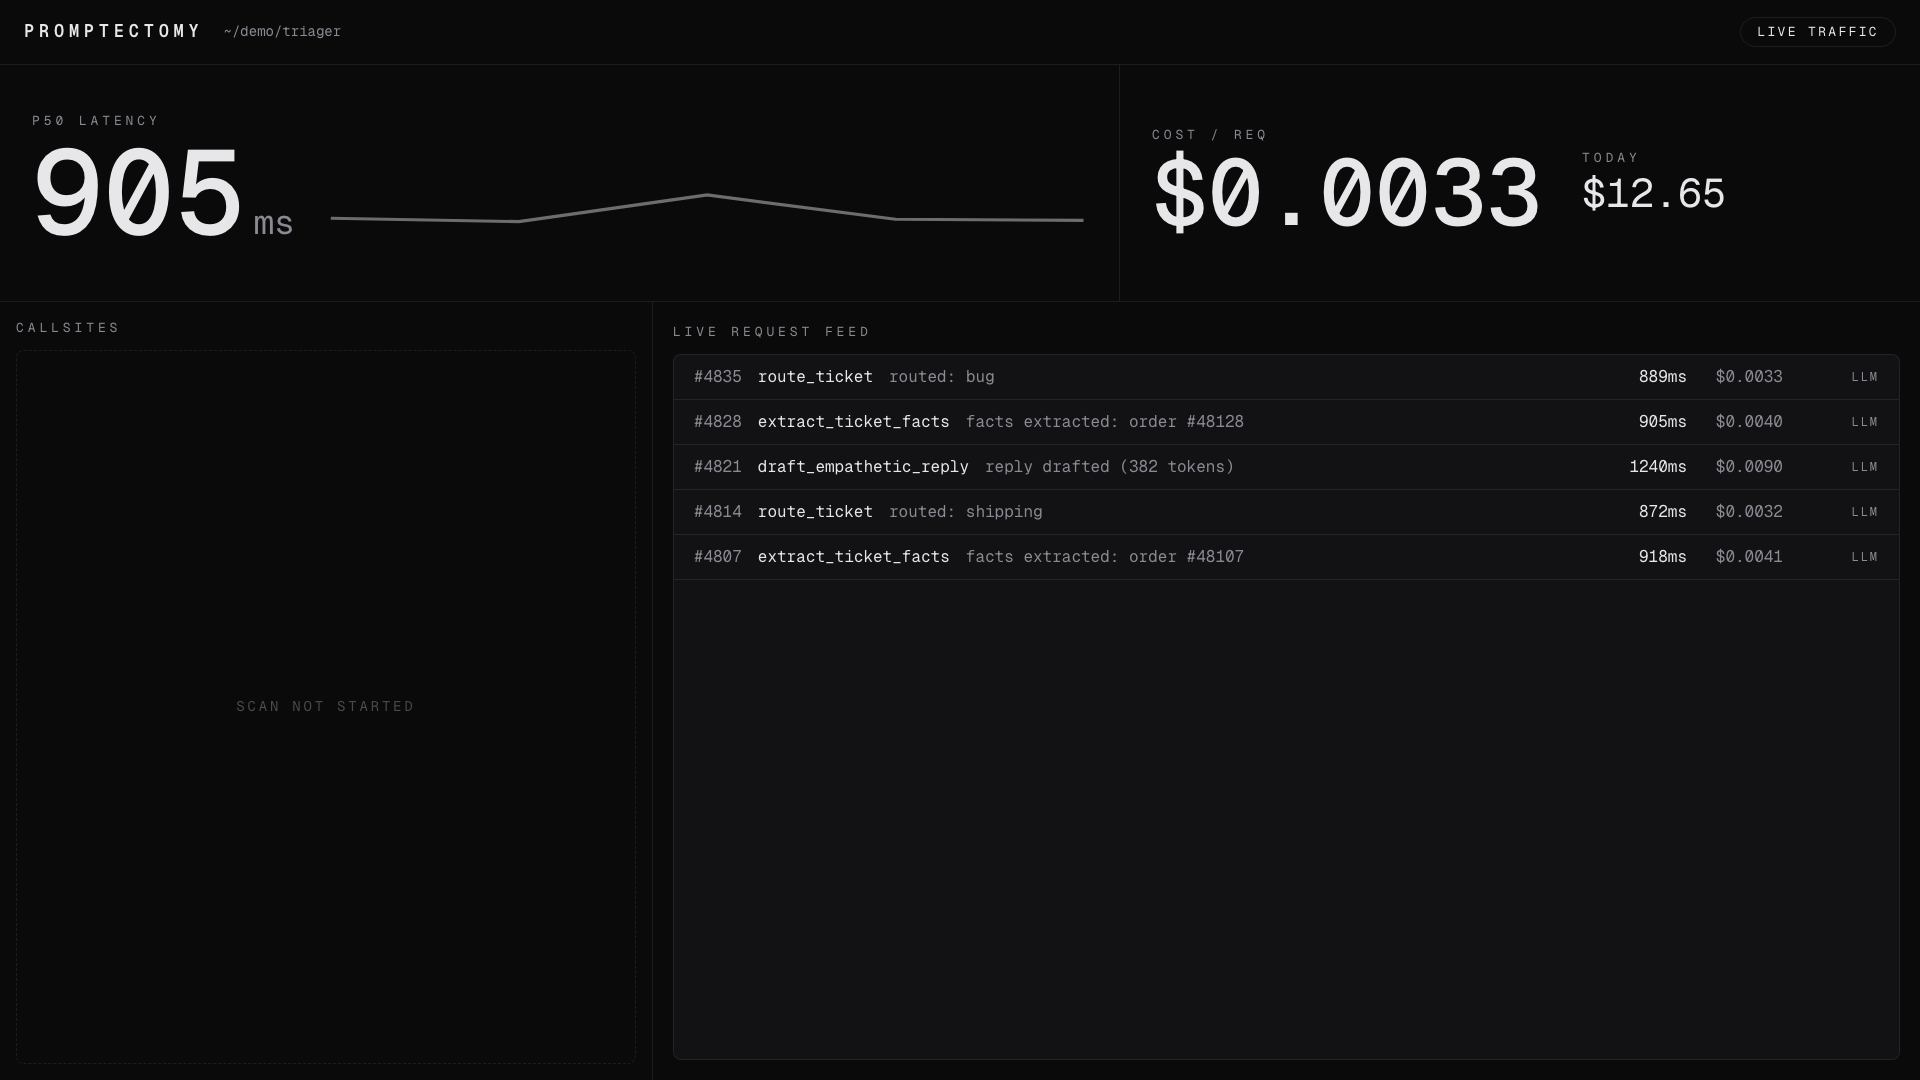
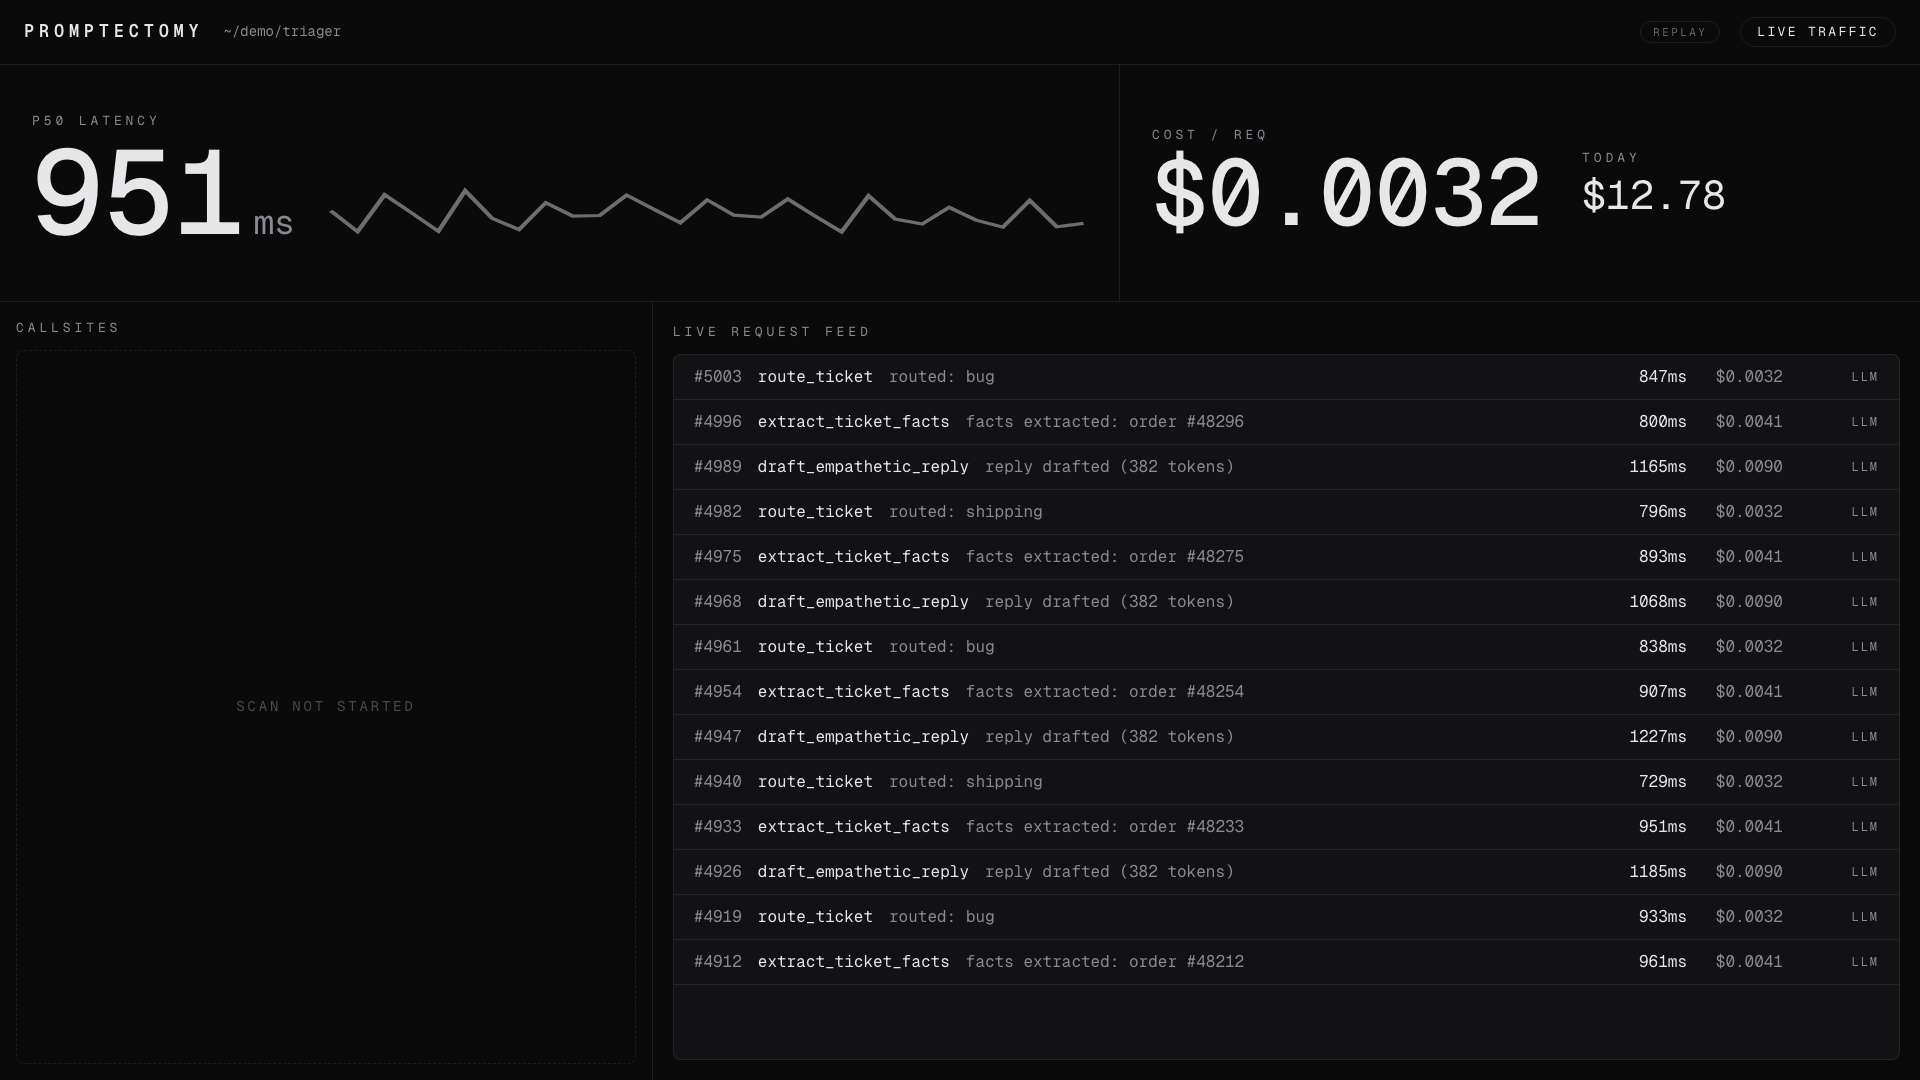
Full handoff doc + dashboard polish (FROZEN fix, REPLAY pill, legibility)
docs/HANDOFF.md: complete take-over guide (layout, run, state, what's left, boundaries).
Dashboard polish: FROZEN/TODAY overlap fixed, dim REPLAY pill, hero-beat legibility, stale
fabricated-diff screenshot removed. Playwright 8/8.

Claude-Session: https://claude.ai/code/session_015d9CNbHRWcF1xMgNYyVSu5

diff --git a/ui/components/MeterStrip.tsx b/ui/components/MeterStrip.tsx
@@ -2,6 +2,7 @@
 
 import { useEffect, useRef, useState } from "react";
 import { animate } from "motion";
+import { motion } from "motion/react";
 import { p50, type DashState, type TrafficSample } from "@/lib/state";
 import { cn } from "@/lib/utils";
 
@@ -123,26 +124,29 @@ export function MeterStrip({ state }: { state: DashState }) {
           </span>
         </div>
         <div>
-          <div className="font-mono text-[13px] tracking-[0.3em] text-muted">TODAY</div>
-          <div className="relative inline-block">
-            <span
-              data-testid="cum-cost"
-              className={cn(
-                "tnum font-mono text-[clamp(22px,4vh,40px)] leading-tight",
-                state.frozenCost !== null ? "text-muted/30" : "text-fg",
-              )}
-            >
-              {usd(cumulative, 2)}
-            </span>
+          <div className="flex h-6 items-center gap-3 font-mono text-[13px] tracking-[0.3em] text-muted">
+            <span>TODAY</span>
             {state.frozenCost !== null && (
-              <span
+              <motion.span
                 data-testid="frozen-stamp"
-                className="absolute left-1/2 top-1/2 -translate-x-1/2 -translate-y-1/2 -rotate-12 rounded border-2 border-go/70 bg-ink/60 px-2.5 py-0.5 font-mono text-[13px] font-bold tracking-[0.24em] text-go whitespace-nowrap"
+                initial={{ opacity: 0, scale: 1.5, rotate: 0 }}
+                animate={{ opacity: 1, scale: 1, rotate: -4 }}
+                transition={{ duration: 0.3, ease: "easeOut" }}
+                className="rounded border-2 border-go/80 px-2 py-px font-mono text-[12px] font-bold tracking-[0.24em] text-go whitespace-nowrap"
               >
                 FROZEN
-              </span>
+              </motion.span>
             )}
           </div>
+          <span
+            data-testid="cum-cost"
+            className={cn(
+              "tnum font-mono text-[clamp(22px,4vh,40px)] leading-tight",
+              state.frozenCost !== null ? "text-muted" : "text-fg",
+            )}
+          >
+            {usd(cumulative, 2)}
+          </span>
         </div>
       </div>
     </section>

diff --git a/ui/components/stages/SwapTable.tsx b/ui/components/stages/SwapTable.tsx
@@ -53,7 +53,7 @@ export function SwapTable({ state }: { state: DashState }) {
                 initial={{ scale: 1.35, opacity: 0 }}
                 animate={{ scale: 1, opacity: 1 }}
                 transition={{ duration: 0.2, delay: 0.3 + i * 0.22, ease: "easeOut" }}
-                className={`text-right text-[13px] font-semibold tracking-[0.14em] ${identical ? "text-go" : "text-warm"}`}
+                className={`text-right text-[16px] font-bold tracking-[0.14em] ${identical ? "text-go" : "text-warm"}`}
               >
                 {identical ? "IDENTICAL" : "DIFFERS"}
               </motion.span>
@@ -61,8 +61,9 @@ export function SwapTable({ state }: { state: DashState }) {
           );
         })}
       </div>
-      <div className="mt-4 font-sans text-[clamp(16px,2.2vh,20px)] text-muted">
-        Same inputs, byte-identical outputs. The model is out of the hot path.
+      <div className="mt-4 font-sans text-[clamp(17px,2.4vh,22px)] text-fg">
+        Same inputs, byte-identical outputs.{" "}
+        <span className="text-muted">The model is out of the hot path.</span>
       </div>
     </div>
   );

diff --git a/ui/components/TopBar.tsx b/ui/components/TopBar.tsx
@@ -13,7 +13,7 @@ const PILL: Record<Stage, { label: string; cls: string }> = {
   guard: { label: "GUARDED", cls: "border-go/50 text-go" },
 };
 
-export function TopBar({ state }: { state: DashState }) {
+export function TopBar({ state, replay }: { state: DashState; replay: boolean }) {
   const pill = PILL[state.stage];
   return (
     <header className="flex h-[6vh] min-h-11 shrink-0 items-center gap-5 border-b border-hairline px-6">
@@ -22,6 +22,14 @@ export function TopBar({ state }: { state: DashState }) {
       </span>
       <span className="font-mono text-[14px] text-muted">~/demo/triager</span>
       <span className="flex-1" />
+      {replay && (
+        <span
+          data-testid="replay-pill"
+          className="rounded-full border border-hairline px-3 py-0.5 font-mono text-[11px] tracking-[0.22em] text-muted/70"
+        >
+          REPLAY
+        </span>
+      )}
       <span
         data-testid="run-status"
         className={cn(

diff --git a/ui/components/stages/Judgment.tsx b/ui/components/stages/Judgment.tsx
@@ -13,7 +13,7 @@ export function Judgment({ state }: { state: DashState }) {
         animate={{ opacity: 1, scale: 1 }}
         transition={{ duration: 0.25, ease: "easeOut" }}
         data-testid="judgment-badge"
-        className="rounded-lg border-2 border-keep bg-keep/10 px-8 py-3 font-mono text-[clamp(24px,4vh,40px)] font-semibold tracking-[0.2em] text-keep"
+        className="rounded-lg border-2 border-keep bg-keep/10 px-10 py-4 font-mono text-[clamp(30px,5vh,54px)] font-semibold tracking-[0.2em] text-keep shadow-[0_0_70px_rgba(139,92,246,0.18)]"
       >
         KEEP MODEL
       </motion.div>

diff --git a/ui/components/CallsiteWall.tsx b/ui/components/CallsiteWall.tsx
@@ -29,7 +29,7 @@ function VerdictBadge({ cs }: { cs: CallsiteState }) {
       data-testid={`verdict-${v.callsite_id}`}
       data-status={v.status}
       className={cn(
-        "inline-block rounded border px-3 py-0.5 font-mono text-[15px] font-semibold tracking-[0.14em]",
+        "inline-block rounded border px-3 py-1 font-mono text-[16px] font-bold tracking-[0.14em]",
         style,
       )}
     >

diff --git a/ui/components/Dashboard.tsx b/ui/components/Dashboard.tsx
@@ -23,7 +23,7 @@ export function Dashboard({
       data-beat={state.beat}
       className="flex h-screen flex-col bg-ink text-fg"
     >
-      <TopBar state={state} />
+      <TopBar state={state} replay={live === null} />
       <MeterStrip state={state} />
       <div className="grid min-h-0 flex-1 grid-cols-[34%_66%]">
         <CallsiteWall state={state} />

diff --git a/ui/app/globals.css b/ui/app/globals.css
@@ -50,7 +50,7 @@ body {
     box-shadow: inset 0 0 0 rgba(34, 197, 94, 0);
   }
   100% {
-    box-shadow: inset 0 0 60px rgba(34, 197, 94, 0.12);
+    box-shadow: inset 0 0 70px rgba(34, 197, 94, 0.17);
   }
 }
 .card-compiled {

diff --git a/docs/HANDOFF.md b/docs/HANDOFF.md
@@ -1,0 +1,97 @@
+# PROMPTECTOMY - full handoff
+
+Everything a human or a fresh agent needs to take this over. Written 18 July 2026, ~14:40 BST.
+Repo: github.com/zippyg/codex-build-hack (private). Latest pushed: run `git log --oneline -5`.
+
+## What it is
+PROMPTECTOMY: point Codex at a repo, it finds the LLM calls that should be deterministic code, writes
+the replacement, and PROVES equivalence by replaying recorded traffic on a sealed holdout the model
+never saw; hot-swaps it in; keeps the calls that genuinely need a model. "The AI that writes the code
+that makes the AI unnecessary." Built for the Codex Community Hackathon, London, 18 July 2026.
+
+## Repo layout
+- `engine/` - Python 3.12 (uv). The tool.
+  - `promptectomy/contracts.py` - FROZEN Pydantic contracts (ledger, audit, verdict, PipelineEvent).
+  - `promptectomy/shim.py` - monkeypatches `Responses.create`; records to the ledger; hot-swaps to a
+    compiled engine when the registry enables it; 1% shadow guard. Callsite-id resolution is cached.
+  - `promptectomy/ledger.py` - JSONL ledger, key-based secret redaction.
+  - `promptectomy/scan.py` - Codex audit (`codex exec --output-schema`) + a static tag fallback.
+  - `promptectomy/synthesize.py` - builds the `codex exec` synthesis call in a worktree; parses --json.
+  - `promptectomy/worktrees.py` - git worktree per callsite (`pt/<id>`), staging, cleanup.
+  - `promptectomy/splitting.py` - train/dev/holdout 60/20/20 by canonical-request hash (no leakage).
+  - `promptectomy/scoring.py` - structured (canonical-JSON exact) + classifier (label agreement + macro-F1).
+  - `promptectomy/replay.py` - runs a generated module under a 100ms SIGALRM timeout; scores it.
+  - `promptectomy/guard.py` - AST purity guard: rejects forbidden imports/IO/eval BEFORE a generated
+    module is imported. Wired into replay.load_engine and shim._engine (+ path confinement).
+  - `promptectomy/verify.py` - parent-owned sealed-holdout verifier (runs once), emits the Verdict.
+  - `promptectomy/schemas.py` - generates OpenAI-strict `--output-schema` JSON from the contracts.
+  - `promptectomy/cli.py` - Typer: `run`, `scan`, `accept`, `disable`.
+  - `promptectomy/generated/*.py` - the modules CODEX WROTE (committed as evidence).
+  - `demo/triager/pipeline.py` - the demo app (3 tagged callsites). `traffic.py` + `capture.py` build
+    a keyless synthetic ledger with text-derivable ground truth.
+  - `tests/test_engine.py` - 7 pytest (scoring, split no-leakage, replay, ledger redaction, guard).
+- `ui/` - Next.js (bun). The dashboard.
+  - `lib/contracts.ts` - FROZEN Zod mirror of the PipelineEvent wire shape.
+  - `lib/useEventStream.ts` - plays a fixture NDJSON with at_ms pacing (`?speed=`, `?until=`) OR a live
+    EventSource. `lib/state.ts` - event reducer + beat derivation.
+  - `fixtures/demo-run.ndjson` - the HONEST re-paced ~88s demo (real verdicts/numbers). THIS is what
+    the stage plays. `fixtures/real-run.ndjson` - the raw real run it was built from.
+  - `app/page.tsx`, `components/*` - the cockpit (MeterStrip, CallsiteWall, MainStage + stages/).
+  - `tests/beats.spec.ts` - Playwright 8/8 (asserts the 6 beat states render + verdict colors).
+- `docs/` - SUBMISSION.md (pitch, demo script, Q&A, boundaries, numbers), submission-answers.md
+  (pasteable form fields), CONTRACTS.md, HANDOFF.md (this), specs/, source/ (the builder guide).
+- `.agent/` - plans (DECISION-promptectomy.md, BUILD-PLAN.md, MASTER-PLAN.md), logs, memory, receipts.
+  Ideation trail: `.claude/agent-logs/fable-*.md` and `.agent/artifacts/cx-*.md`.
+
+## How to run
+```bash
+# engine
+cd engine && uv sync
+uv run python -m demo.triager.capture 240     # keyless synthetic ledger -> .promptectomy/ledger.jsonl
+uv run promptectomy run .. --events jsonl     # scan -> synthesize in worktrees -> sealed-holdout verify (needs codex CLI logged in)
+uv run promptectomy scan <any-repo>           # audit-only: find LLM callsites in any repo
+uv run pytest -q                              # 7 green
+# dashboard
+cd ui && bun install && bun dev               # http://localhost:4319 (auto-plays fixtures/demo-run.ndjson)
+```
+No OPENAI_API_KEY needed (synthetic traffic). Codex synthesis uses the local `codex` CLI (logged in).
+
+## Verified results (frozen demo dataset, real run)
+extract_ticket_facts COMPILED 100% (52-case sealed holdout, ~900ms->0.006ms); route_ticket COMPILED
+100% (60-case holdout, a negation-aware rule classifier); draft_empathetic_reply NOT_COMPILABLE.
+Whole-pipeline cost -44.8%. Scanner on microsoft/markitdown @ e144e0a found its 3 vision/LLM callsites,
+all correctly kept. Receipts in `.agent/artifacts/receipts/`.
+
+## The demo (2 min, recorded replay = cannot stall)
+Open the dashboard; it auto-plays the 6 beats (~88s). Retellable line: "Codex turned two prompts into
+code, proved them against traffic it never saw, and kept the third because it still earned its tokens."
+Full beat-by-beat + Q&A answers in docs/SUBMISSION.md. Live-run is a Q&A bonus, never the stage plan.
+
+## State: 12 of 13 tasks done (see the session task list)
+Done: contracts, engine, dashboard, tests, kill-gate, full pipeline, UI-real-run, security, perf,
+public receipt, native render check, measured numbers. Open: #13 submit.
+
+## What's LEFT (priority order)
+1. DASHBOARD CLARITY + DE-AI (in progress, do this by direct edits, NOT a subagent - usage is tight):
+   - CLARITY: add a plain-language NARRATOR line that changes per beat so a viewer with no context
+     understands it (script drafted in SUBMISSION/chat). This is the top fix - "value obvious in 2 min".
+   - IDENTITY: the dark+neon-green+mono look reads as generic-AI. Give it a distinctive, opinionated
+     identity (candidate direction: clean surgical/clinical-editorial, on-theme with "-ectomy").
+2. DEPLOY TO VERCEL: deploy `ui/` (Next) as a static recorded-replay so judges get a live shareable URL.
+   The engine CANNOT run on Vercel (Python + codex + worktrees); the dashboard + bundled fixture can.
+   `vercel` CLI 54.18.7 is installed and available. Deploy the FINAL (post-redesign) version.
+3. SUBMIT (#13, human/day-of): get the organiser's London submission link (announced ~10:40); optional
+   60-90s backup screen recording; fresh-start rehearsal; submit by 16:30 (buffer to 17:00). Paste from
+   docs/submission-answers.md.
+
+## Known boundaries (state them in the pitch; they are strengths)
+- Generated code runs in-process (statically guarded by guard.py); production = out-of-process sandbox + rlimits.
+- Agreement = preservation of recorded MODEL behaviour, not objective correctness.
+- Traffic is synthetic-but-realistic (keyless); real capture uses the shim with an API key.
+- Live shim hot-swap needs a captured real Response envelope; the demo shows the swap via the recording.
+- Both compiled callsites are 100% (no diffs), so the demo shows clean COMPILED, not a forced diff beat.
+
+## Usage / fleet notes
+Conserve subagent usage (esp. Fable). Do remaining UI work by direct edits. Codex CLI is fine for
+synthesis/scan. The security audit is in .claude/agent-logs/security-audit-20260718.md (semgrep clean;
+keys scrubbed; holdout isolated; headline: in-process exec is a stated boundary).
